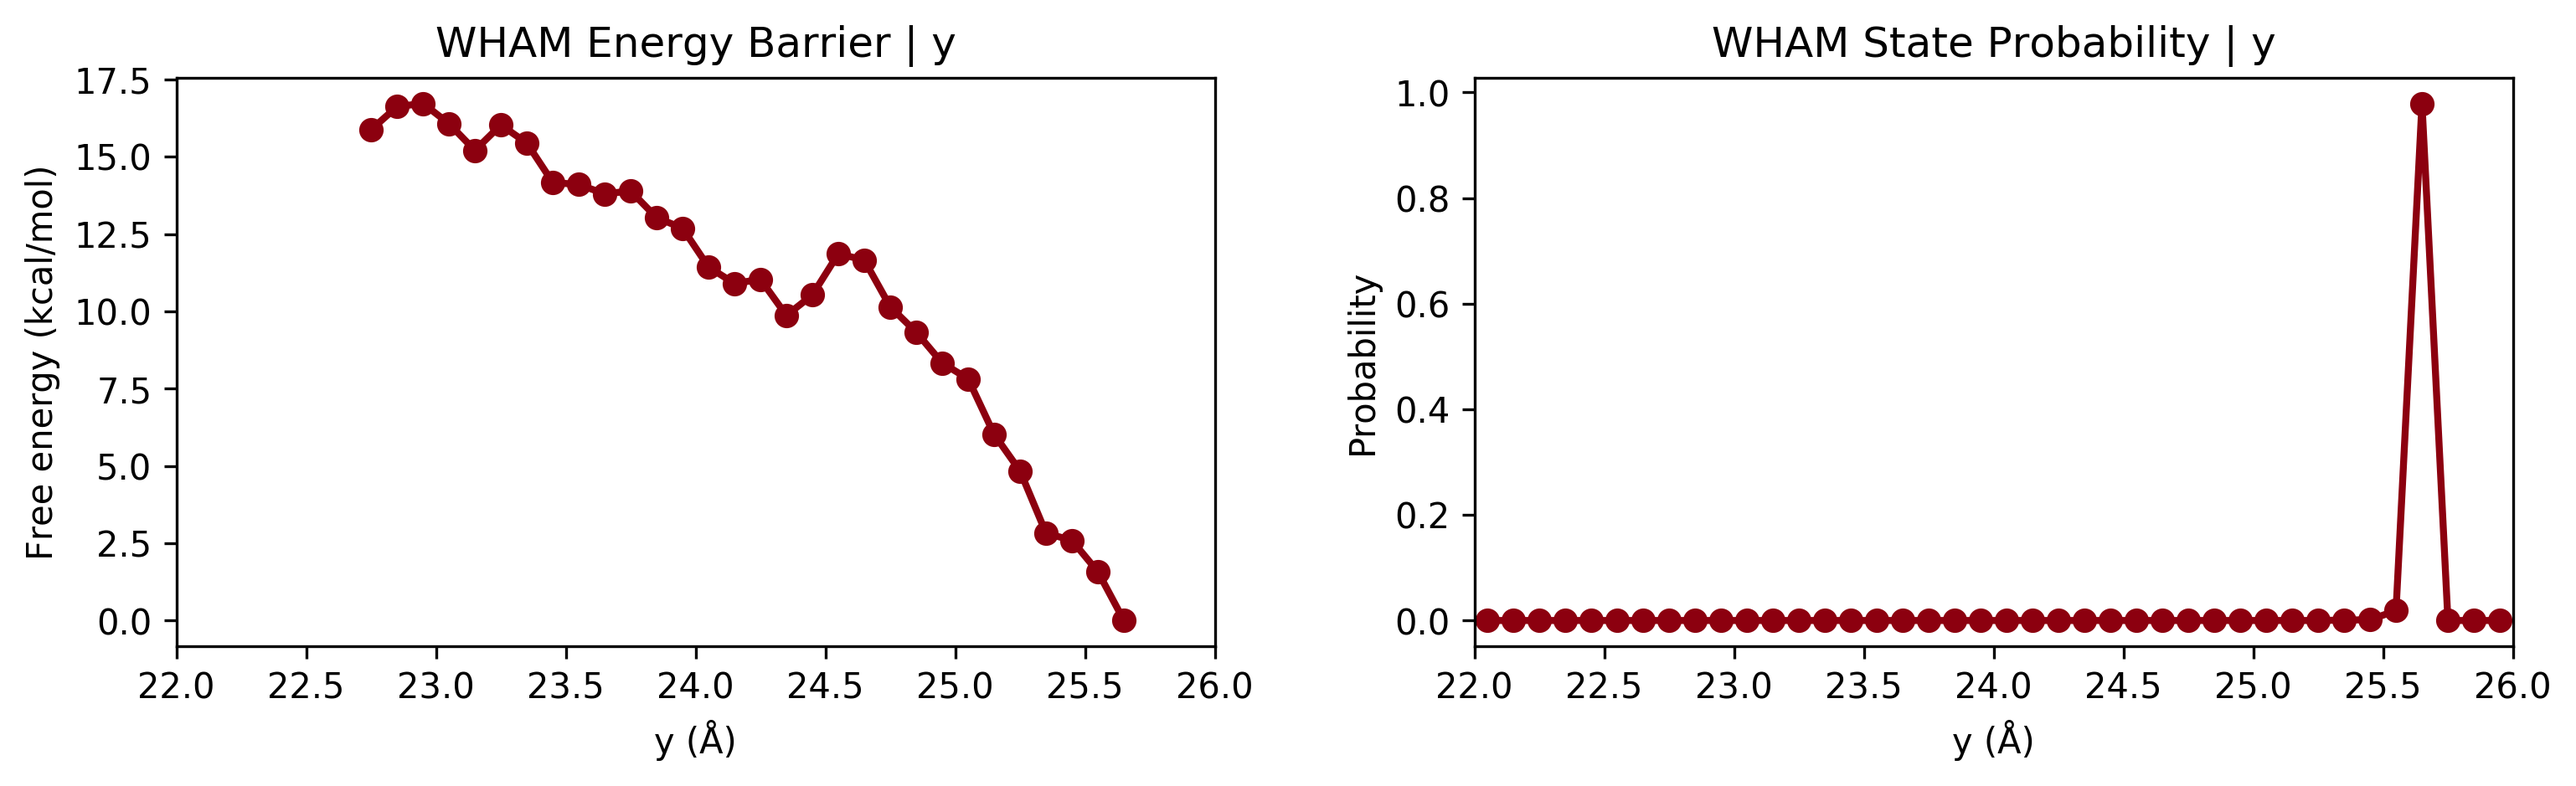
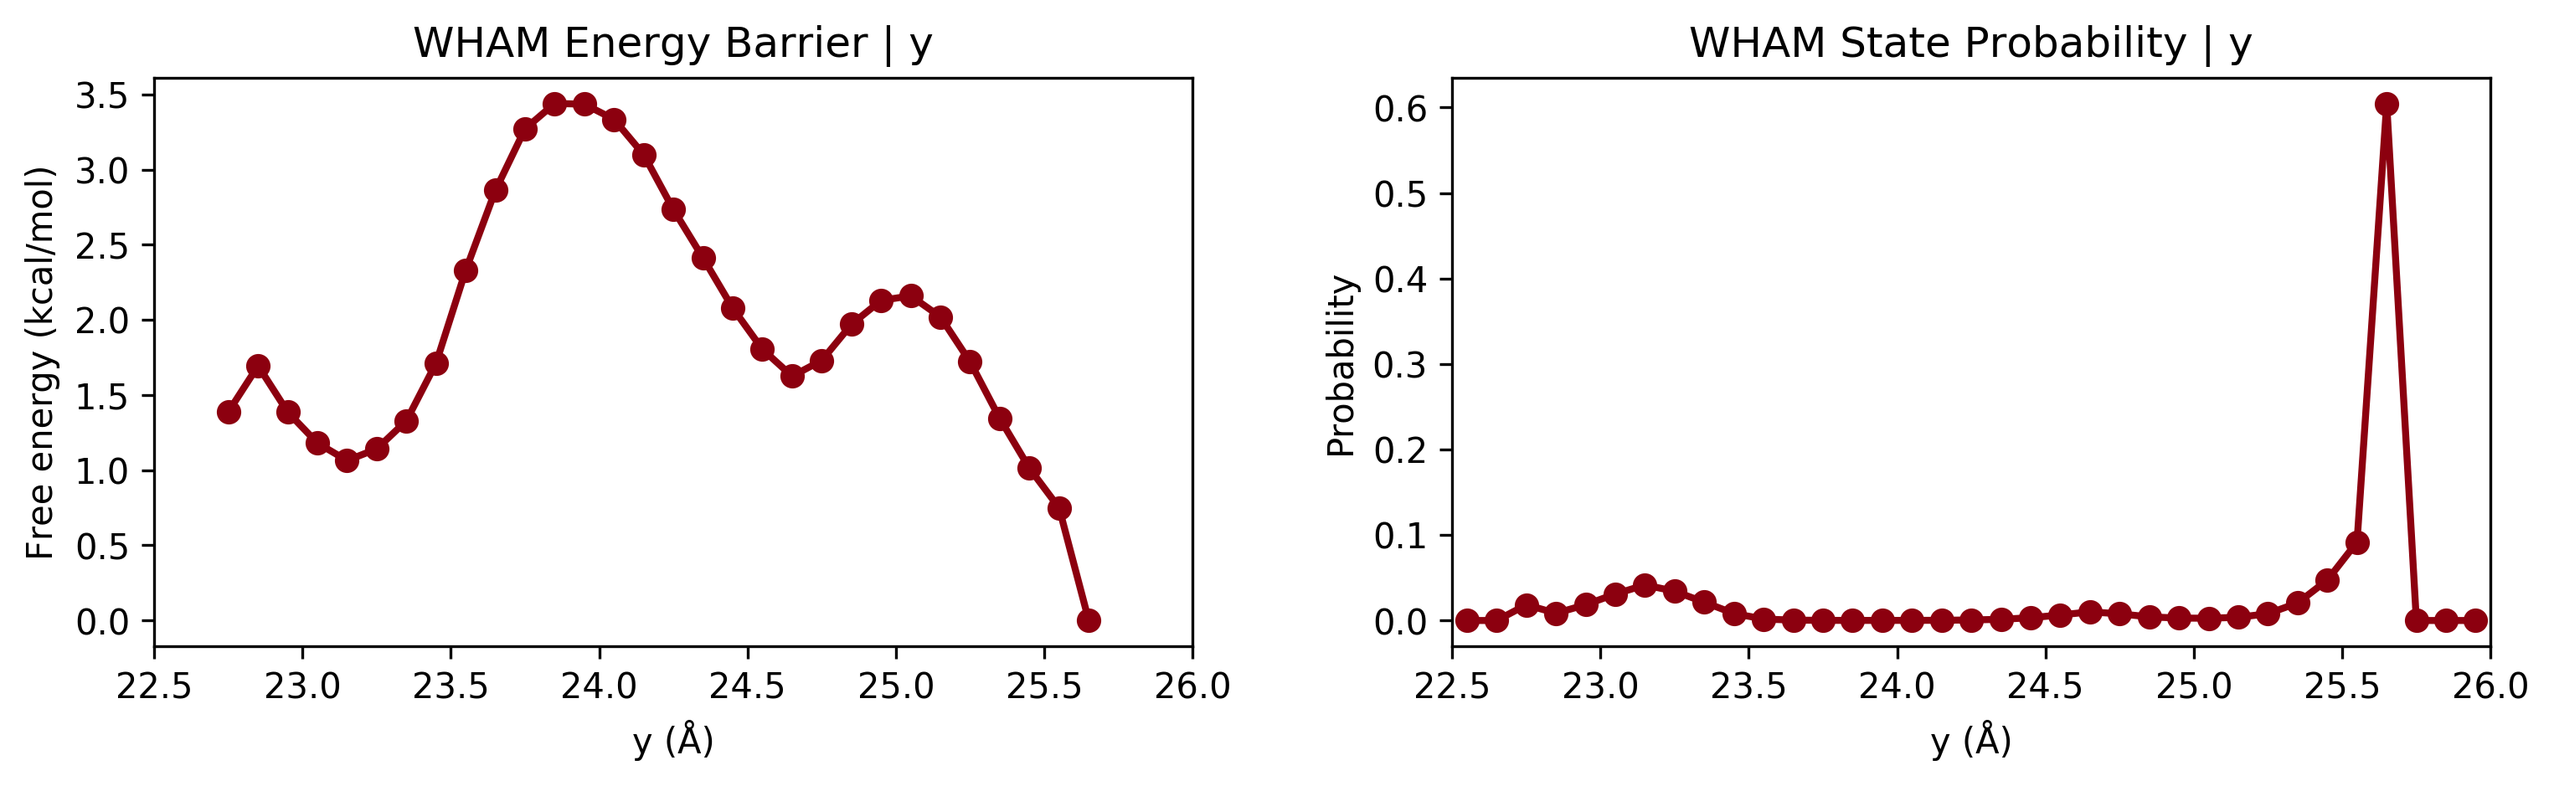
Add scan6-y-long results and update WHAM free energy plots (fix start coordinate).

diff --git a/docs/dctst.md b/docs/dctst.md
@@ -52,6 +52,16 @@
 
 <p>
   <details>
+    <summary><b>y-direction 2.5 nearest neighbors</b></summary>
+      <img src="assets/img/dctst/scan6-y-long-thermo.png">
+      <img src="assets/img/dctst/scan6-y-long-hist.png">
+      <img src="assets/img/dctst/scan6-y-long-wham.png">
+  </details>
+</p>
+
+
+<p>
+  <details>
     <summary><b>y-direction | eps: 100</b></summary>
       <img src="assets/img/dctst/scan6-y-eps100-thermo.png">
       <img src="assets/img/dctst/scan6-y-eps100-hist.png">
